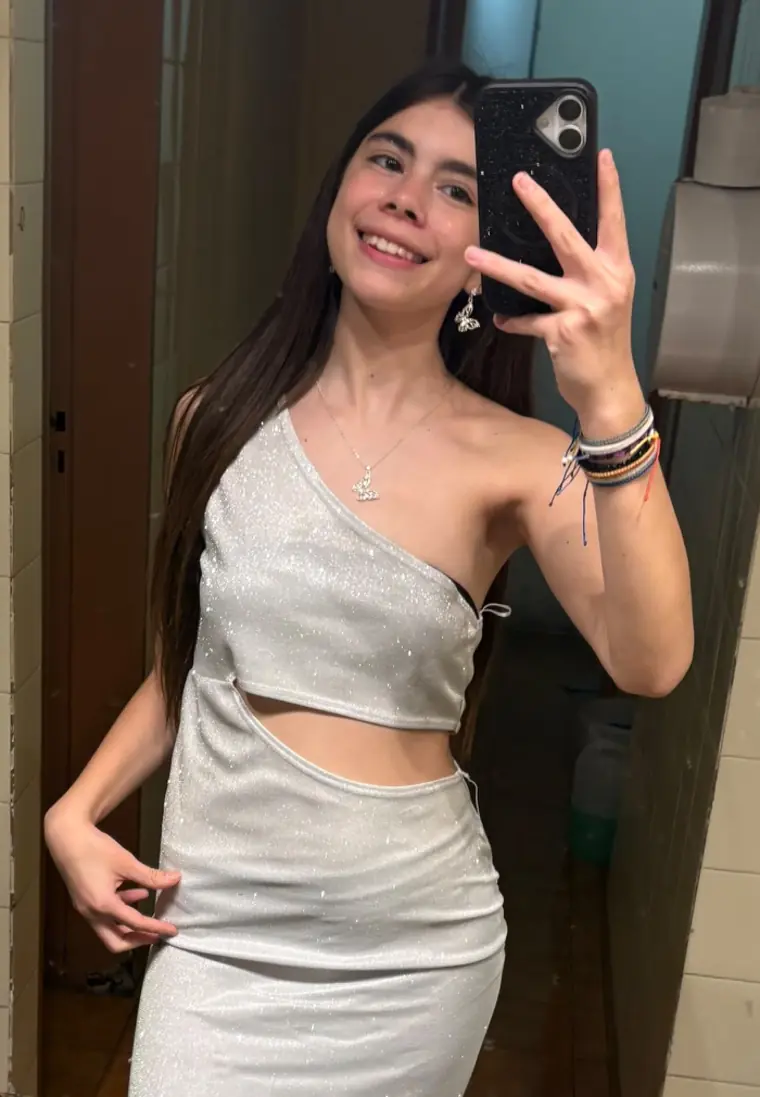
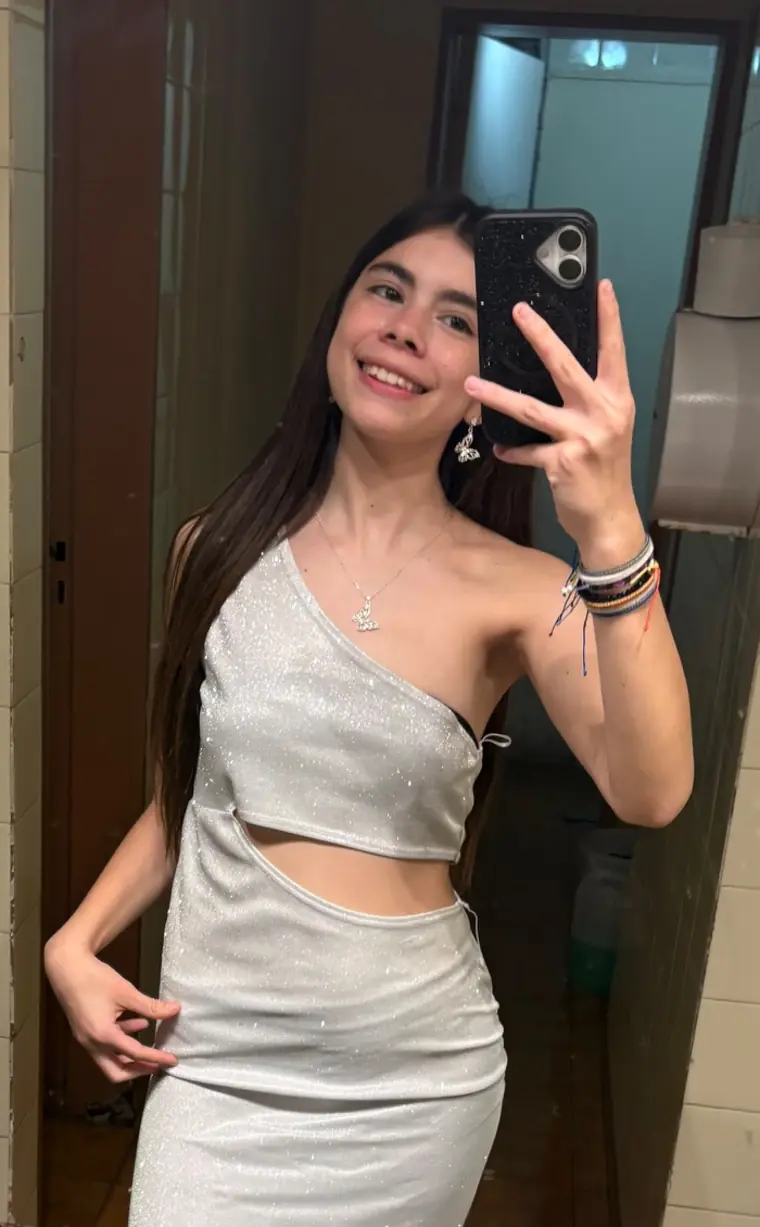
Almi: destapar las dos caras (#23)
* mia15: el alias del regalo pasa a Aneley.1974

Lo cambió el dueño: la cuenta de los regalos es otra. Era
Ceci.montenegro.11.

El rótulo "Alias para transferir" queda igual y ahora hace falta
por dos motivos en vez de uno: Aneley.1974 también se lee como un
usuario de Instagram, y el dato llegó nombrado como "el cbu para
regalos" — no es un CBU, es un alias, y pegar un alias donde el
banco pide un CBU no entra. El que pega el dato equivocado manda
la plata de los invitados a cualquier parte.

El titular sigue vacío y vuelve a estar preguntado: la cuenta no
es la misma, así que el nombre que le va a mostrar el banco al
invitado tampoco tiene por qué serlo. Vacío no se dibuja, que es
lo correcto: un nombre inventado al lado de un alias es peor que
ninguno.

Verificado en el navegador, que es lo que el invitado pega en el
banco: en pantalla dice Aneley.1974, el botón copia Aneley.1974,
entra en su caja sin desbordar y el rótulo sigue arriba.
pruebas/invitacion_mirar.js mia15 da verde en los cuatro aparatos.

Claude-Session: https://claude.ai/code/session_01FpBBw9qZceprbd4ZqNaZCh

* Anotar cómo quiere que se trabaje: publicado, y sin detalle técnico

Dos cosas que dijo el 18/10/2026 y que valen para todo lo que venga:
que un pedido termina publicado y no "listo para publicar", y que el
informe va sin detalle de programación.

Lo primero cambia el flujo: hasta ahora cada cambio quedaba esperando
un "mandalo" suyo, que lo dejaba a él a cargo de apretar el botón. Lo
[…]

diff --git a/almi15/index.html b/almi15/index.html
@@ -353,7 +353,13 @@ h2{font-family:var(--titulos);font-weight:500;line-height:1.08;
    suyos. El filtro va en el CSS y no quemado en el archivo, así el
    original queda entero por si algún día se quiere a color. */
 .port-foto{position:absolute;inset:0;z-index:0;background:#140509;overflow:hidden}
-.port-foto img{width:100%;height:100%;object-fit:cover;object-position:47% 20%;
+/* La foto es MÁS ALTA que la pantalla y está corrida hacia arriba, y
+   eso no es un recorte caprichoso: con la foto justa, la cara cae
+   exactamente donde va el nombre y el texto se le monta encima. Lo que
+   sube es la CARA; abajo queda la ropa, que es donde el velo y las
+   letras no tapan nada. */
+.port-foto img{position:absolute;left:0;top:-17%;width:100%;height:100%;
+  object-fit:cover;object-position:47% 0;
   filter:grayscale(1) contrast(1.07) brightness(.96)}
 /* El velo va atado al TEXTO y no a un porcentaje de la pantalla: el
    alto del bloque cambia con el aparato y la raya del degradé no. Y se
@@ -366,6 +372,24 @@ h2{font-family:var(--titulos);font-weight:500;line-height:1.08;
 #portada.con-foto{align-content:end;background-image:none;background-color:#140509}
 #portada.con-foto > :not(.port-foto){position:relative;z-index:1}
 #portada.con-foto #nombre{font-size:clamp(46px,17.5vw,112px)}
+/* En una pantalla BAJA el bloque de texto se lleva una proporción
+   mucho más grande, así que la misma foto vuelve a quedarle encima a
+   la cara. Ahí la foto sube más y el texto achica un escalón: el
+   recorte no se elige por el ancho, se elige por lo que queda libre
+   arriba. */
+@media (max-height:720px){
+  #portada.con-foto{padding-top:clamp(40px,8vh,70px);
+    padding-bottom:calc(34px + env(safe-area-inset-bottom))}
+  #portada.con-foto .port-foto img{top:-24%;height:126%}
+  #portada.con-foto .flor{margin-bottom:8px;width:min(150px,44vw)}
+  #portada.con-foto #nombre{font-size:clamp(38px,12.5vw,64px)}
+  #portada.con-foto #hilo{margin-top:9px}
+  #portada.con-foto .port-quince{font-size:clamp(16px,5vw,22px);margin-top:7px}
+  #portada.con-foto .port-frase{font-size:clamp(13.5px,3.8vw,16px);line-height:1.45;margin-top:8px}
+  #portada.con-foto .port-dato{line-height:1.9;margin-top:11px;font-size:11px}
+  #portada.con-foto .port-baja{margin-top:12px}
+}
+
 /* El zoom lento: la foto entra 6% agrandada y se acomoda sola en once
    segundos. Once es a propósito —un zoom que se nota es un zoom
    molesto—, y cuelga de `body.cerrado`, la clase que pone el JS al
@@ -394,7 +418,10 @@ h2{font-family:var(--titulos);font-weight:500;line-height:1.08;
    como un error de carga. */
 .franja figure{position:relative;margin:0;overflow:hidden;
   height:clamp(330px,62vh,520px)}
-.franja img{position:absolute;left:0;top:-13%;width:100%;height:126%;object-fit:cover;
+/* El sobrante es el que hace el paralaje, y es poco a propósito: cada
+   punto que se recorta arriba es un punto que el borde rasgado le come
+   a la cabeza de la foto. Con 26% el rasgado le mordía el pelo. */
+.franja img{position:absolute;left:0;top:-8%;width:100%;height:116%;object-fit:cover;
   filter:grayscale(1) contrast(1.08);will-change:transform}
 .franja figure:after{content:'';position:absolute;inset:0;pointer-events:none}
 /* La de arriba: viene de la sección oscura y entrega a la clara. */
@@ -406,7 +433,7 @@ h2{font-family:var(--titulos);font-weight:500;line-height:1.08;
 /* La del final: viene del papel y entrega al pie oscuro. */
 .franja.tras-clara{background:var(--vino-noche)}
 .franja.tras-clara .sierra{fill:var(--rubor-claro)}
-.franja.tras-clara img{object-position:50% 18%}
+.franja.tras-clara img{object-position:50% 0}
 .franja.tras-clara figure:after{
   background:linear-gradient(180deg,transparent 64%,rgba(26,6,14,.38) 84%,var(--vino-noche) 100%)}
 /* El pie: el único renglón nuestro, sobre el oscuro del final. */
@@ -1026,7 +1053,7 @@ function sierraPath(semilla, picos){
      lee como un zigzag de cotillón; lo que pidió la captura es una
      montaña. */
   const pts = [];
-  for (let i = 0; i <= picos; i++) pts.push([(1000 / picos) * i, 16 + az() * 70]);
+  for (let i = 0; i <= picos; i++) pts.push([(1000 / picos) * i, 14 + az() * 52]);
   let d = 'M0 0 L1000 0 L1000 ' + pts[picos][1].toFixed(1);
   for (let i = picos - 1; i >= 0; i--){
     const mx = ((pts[i][0] + pts[i+1][0]) / 2).toFixed(1);
@@ -1102,7 +1129,7 @@ function sierraPath(semilla, picos){
        por la misma propiedad es una que gana y otra que desaparece.
        Moverle la caja tampoco sirve: el velo que hace que el texto se
        lea es un `::after` de esa caja y se iría con ella. */
-    $$('.franja img').forEach(im => sumar(im, im.parentElement, 11));
+    $$('.franja img').forEach(im => sumar(im, im.parentElement, 7));
     mover();
   };
   let pedido = false;

diff --git a/CLAUDE.md b/CLAUDE.md
@@ -3673,6 +3673,38 @@ renglón que se agrega encima de una foto no es sólo un renglón más — es
 todo lo que estaba abajo, subido.** El velo se vuelve a medir cada vez
 que cambia el texto de la portada.
 
+#### Dos caras tapadas, y por qué el recorte no se elige por el ancho
+
+*"La foto de portada está muy tapada la cara con las letras. Y la del
+final está tapada la cara con el zócalo blanco."* Las dos son el mismo
+error con dos disfraces: **se encuadró la foto sin mirar qué le cae
+encima**.
+
+**La portada.** Con `cover` en una pantalla alta la foto se escala por
+el ALTO, así que `object-position` vertical **no hace nada**: la cara
+queda donde la puso el fotógrafo, y ahí es justo donde va el nombre.
+Se arregla moviendo la caja de la imagen (`top:-17%`), no la posición
+del objeto. Lo que sube es la cara; abajo queda la ropa, que es donde
+el velo y las letras no tapan nada.
+
+**Y en una pantalla BAJA volvía a pasar**, porque el bloque de texto
+mide casi lo mismo en todas y en 568px de alto se lleva la mitad de la
+pantalla. Abajo de 720px de alto la portada achica un escalón —el
+nombre, los aires, el pie— y la foto sube más. **El recorte no se
+elige por el ancho: se elige por lo que queda libre arriba.**
+
+**La franja del final.** Ahí el culpable no era el rasgado sino el
+**sobrante del paralaje**: la foto es más alta que su marco y lo que
+se recorta arriba es exactamente la cabeza. Se bajó el sobrante de 26%
+a 16%, se recortó la foto de origen con aire arriba —130 píxeles más
+de espejo— y la cresta quedó menos honda. Un borde que cuelga sobre
+una foto tiene que ser un borde, no una tapa.
+
+**La lección, y es la tercera vez que aparece en esta invitación**: una
+foto encima de la cual va a caer texto —o un borde, o una curva— no se
+encuadra mirando la foto. Se encuadra mirando la pantalla terminada, y
+en el aparato más chico, que es donde el texto pesa más.
+
 ### La clave maestra de los listados
 
 Pedido del dueño el 20/10/2026, junto con `almi15`: *"que se pueda
